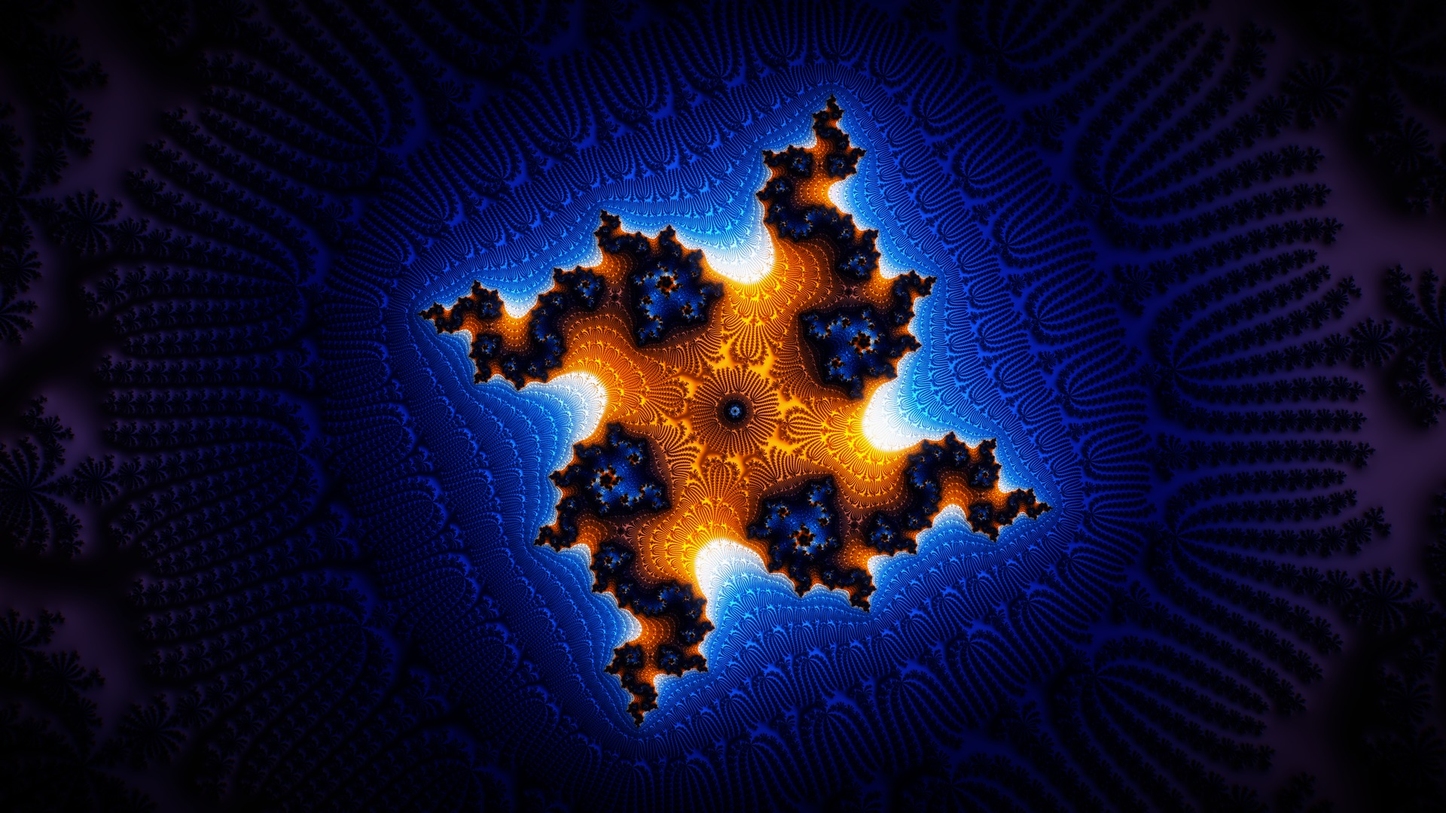
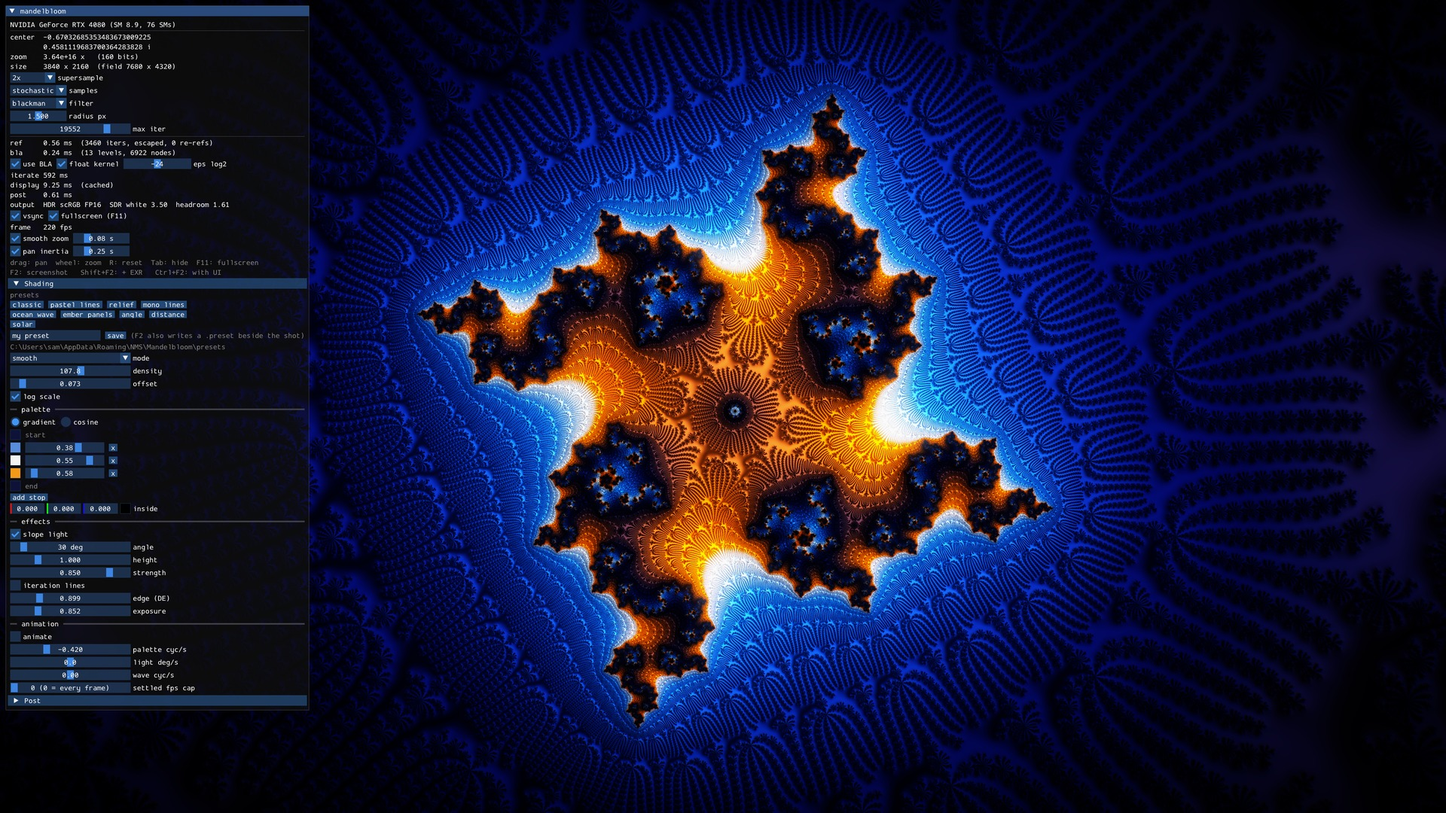
Cover from Sam's Ctrl+F2 capture with docs/cover.preset and the exact command; sidecar command line uses the display scale

diff --git a/src/main.cpp b/src/main.cpp
@@ -405,7 +405,7 @@ void writeLocationFile(App& app, const std::string& stem) {
     std::ofstream loc(stem + ".txt");
     // A complete command line for this exact picture.
     loc << app.render.cx.toString(dg) << " " << app.render.cy.toString(dg) << " "
-        << app.render.scale * app.ss << " " << app.view.maxIter << " --ss " << app.ss << " --aa "
+        << app.render.scale << " " << app.view.maxIter << " --ss " << app.ss << " --aa "
         << app.aa.pattern << "," << app.aa.filter << "," << app.aa.radius << " --loadfile \""
         << stem << ".preset\"\n";
     savePresetFile(stem + ".preset", currentLook(app));

diff --git a/README.md b/README.md
@@ -2,10 +2,11 @@
 
 ![mandelbloom cover: a minibrot at 3.6e16 zoom in the solar preset with bloom](docs/cover.jpg)
 
-Cover location: `-0.67032685353483673009225 0.4581119683700364283828 2.29e-20 19552`,
-solar preset with bloom. Every F2 capture writes a `.txt` beside it holding
-the full command line and a `.preset` with the exact look, so any shot can be
-reproduced with `--loadfile`.
+The cover, reproducible (the preset is `docs/cover.preset`):
+
+```
+mandelgpu.exe -0.67032685353483673009225 0.4581119683700364283828 2.29e-20 19552 --ss 2 --aa 2,3,1.5 --loadfile docs\cover.preset
+```
 
 GPU Mandelbrot viewer for Windows, built for 4K HDR and smooth deep zooms. CUDA does the iteration, SDL3 and Dear ImGui
 do the window and UI, Direct3D 12 presents an FP16 scRGB swapchain (HDR on
